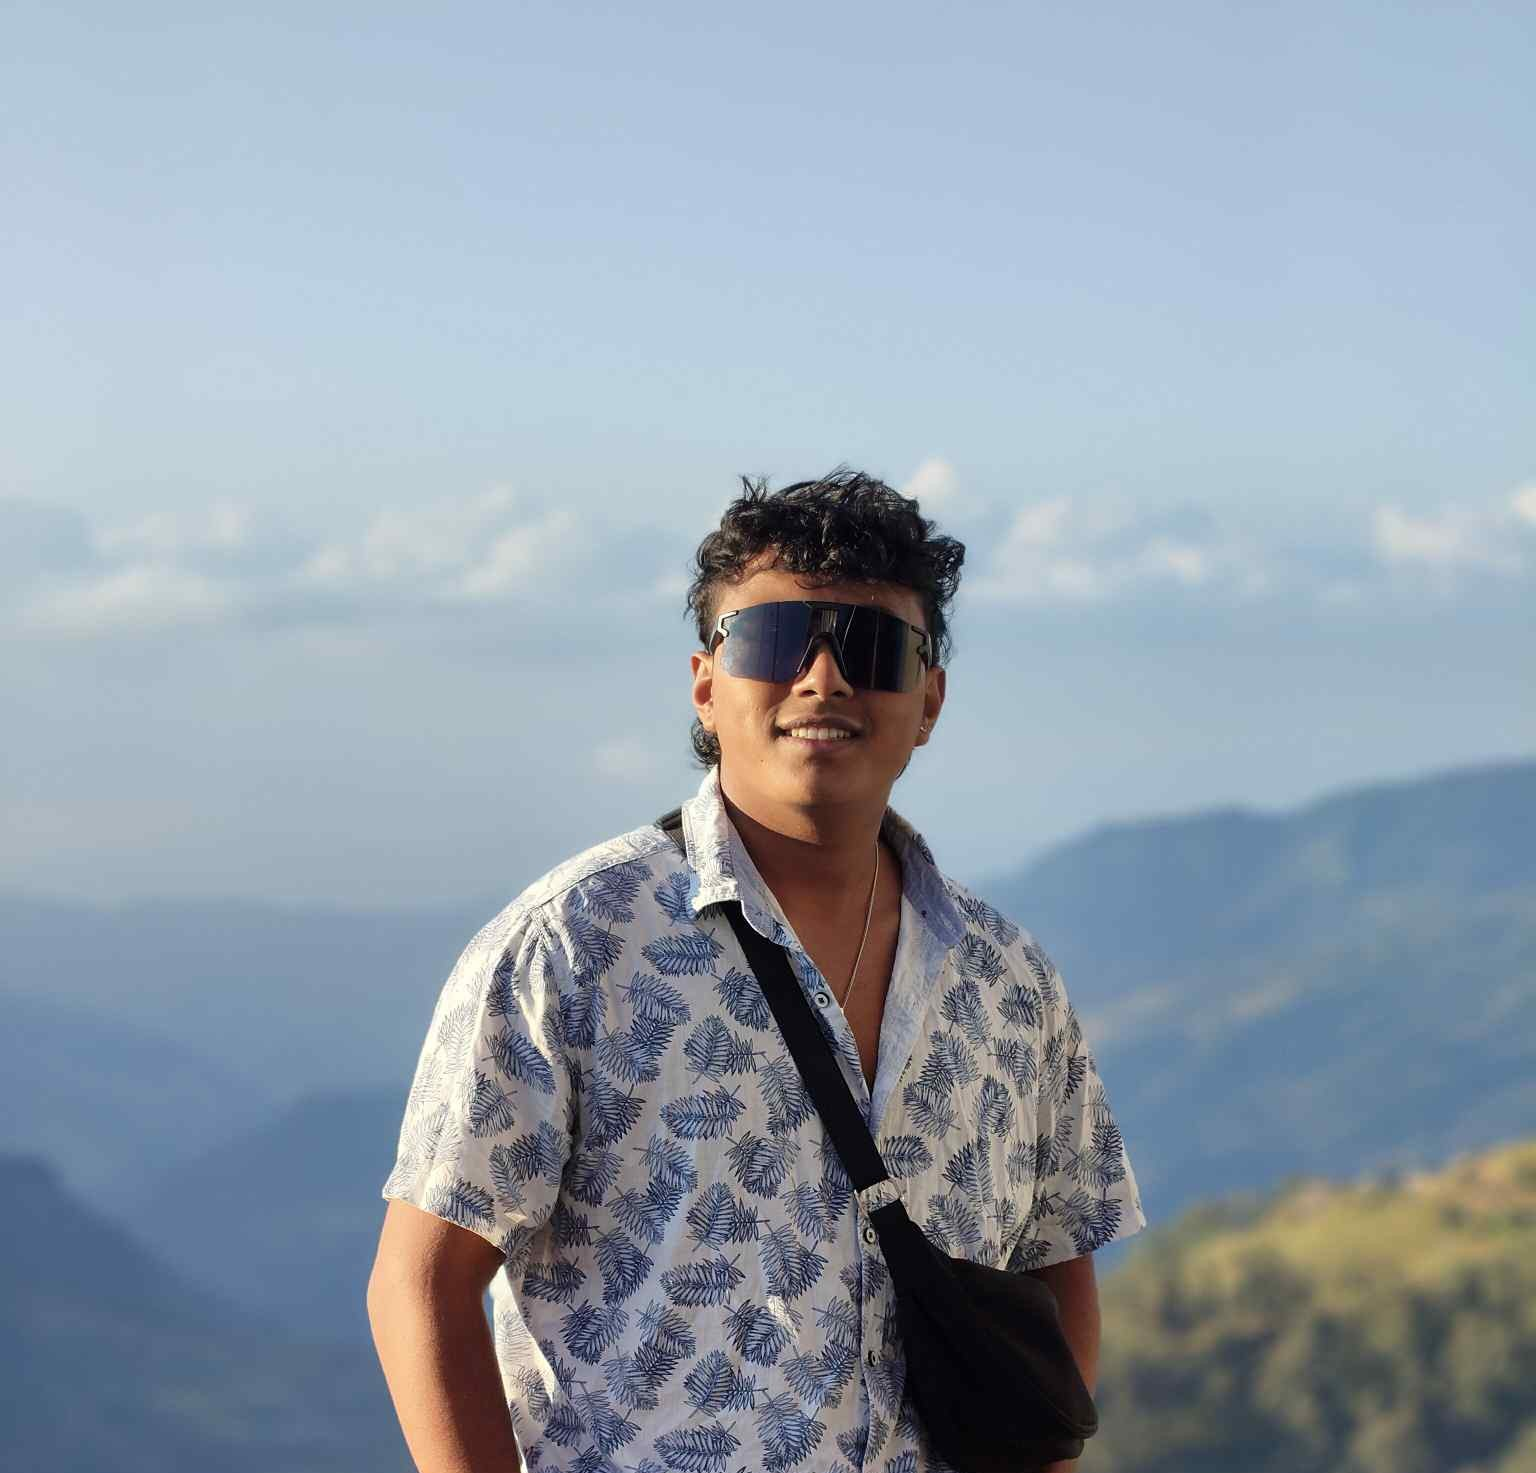
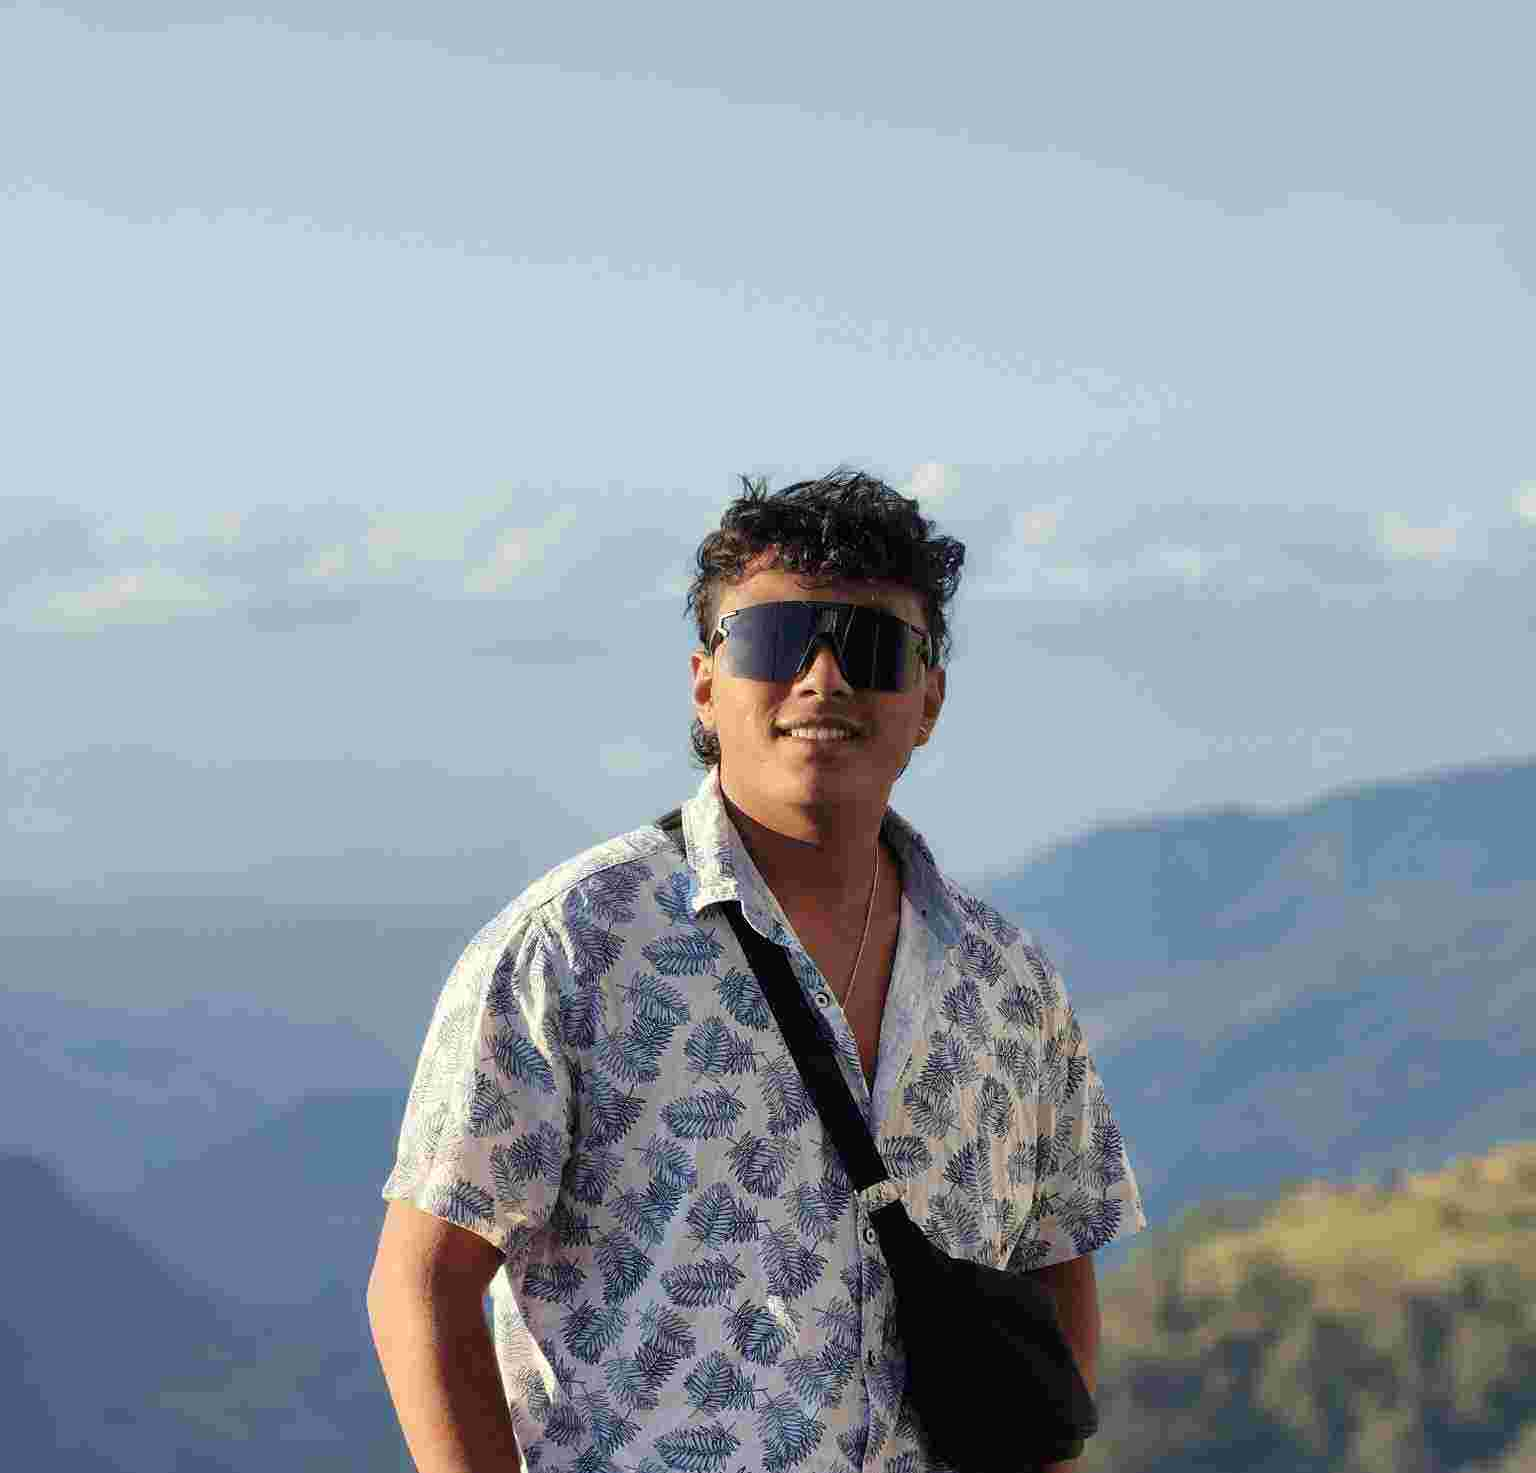
ss

diff --git a/app/headship/page.tsx b/app/headship/page.tsx
@@ -26,7 +26,7 @@ export default function LeadershipPage() {
       id: 2,
       name: "Nischal Shrestha",
       position: "Founder & Managing Director",
-      image: "/6.jpg",
+      image: "/7.jpg",
       description:
         "Visionary entrepreneur with a passion for serving the local community and continuing the family legacy of honest business practices.",
       experience: "10+ years in retail business",
